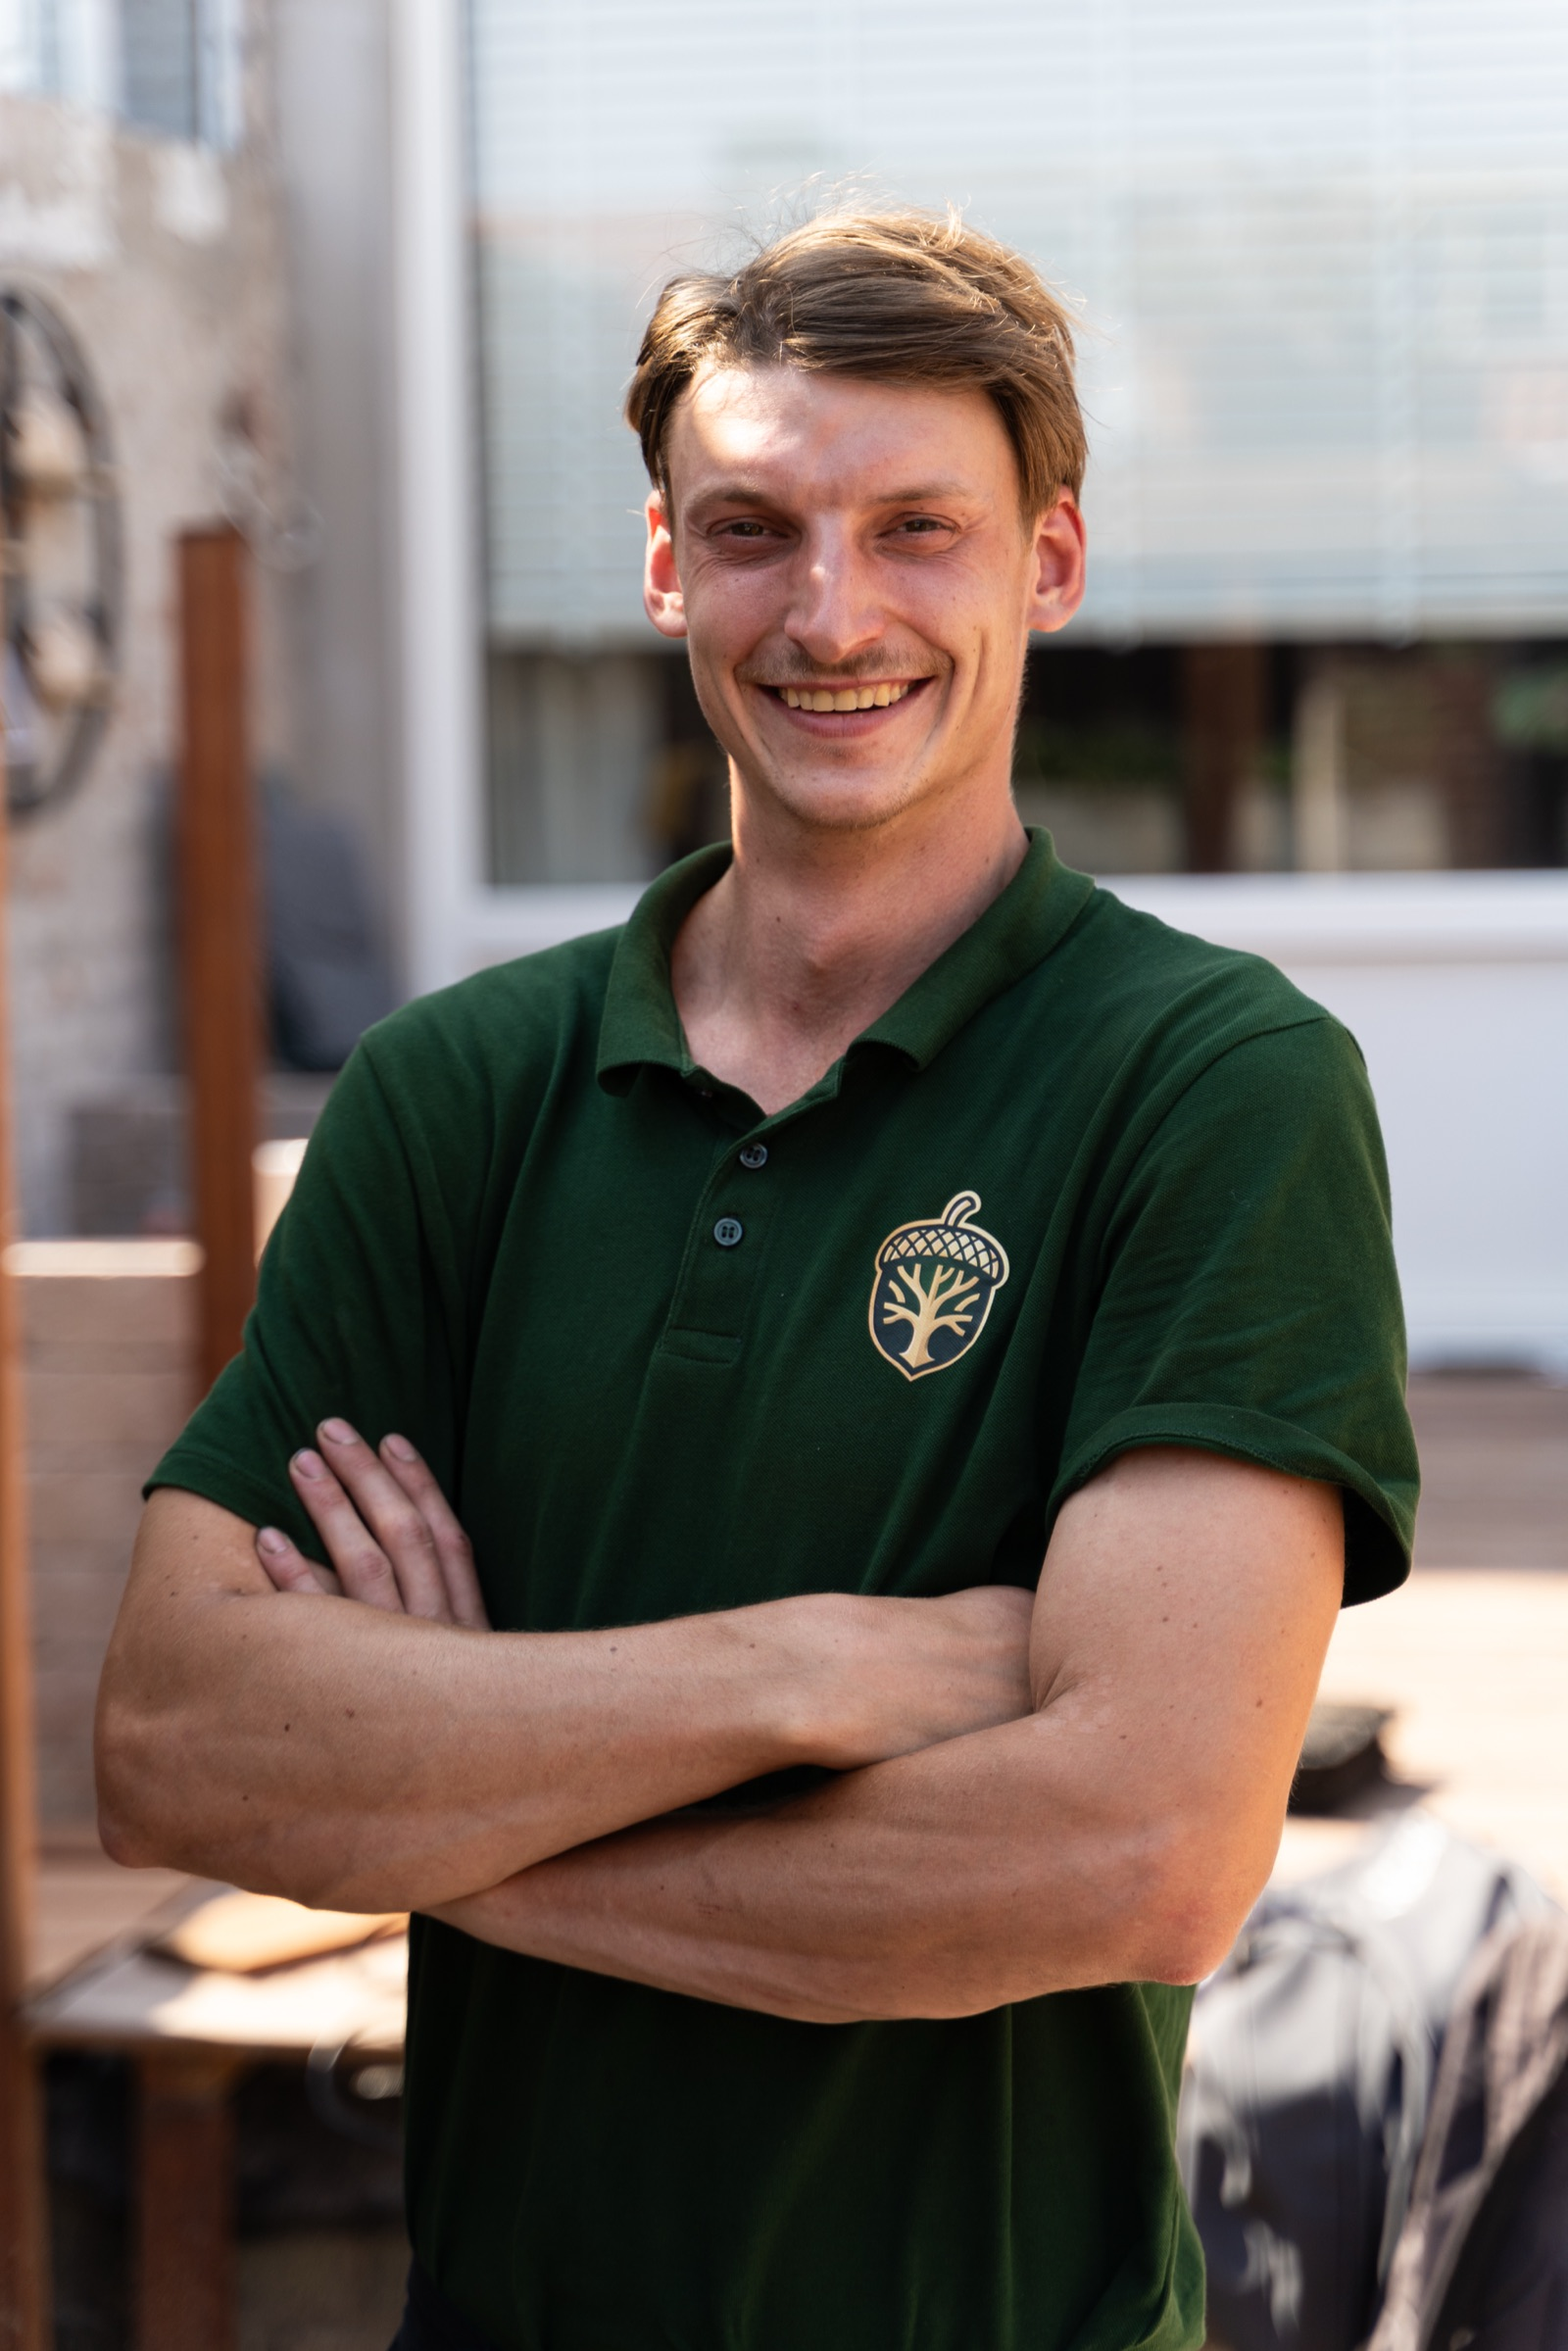
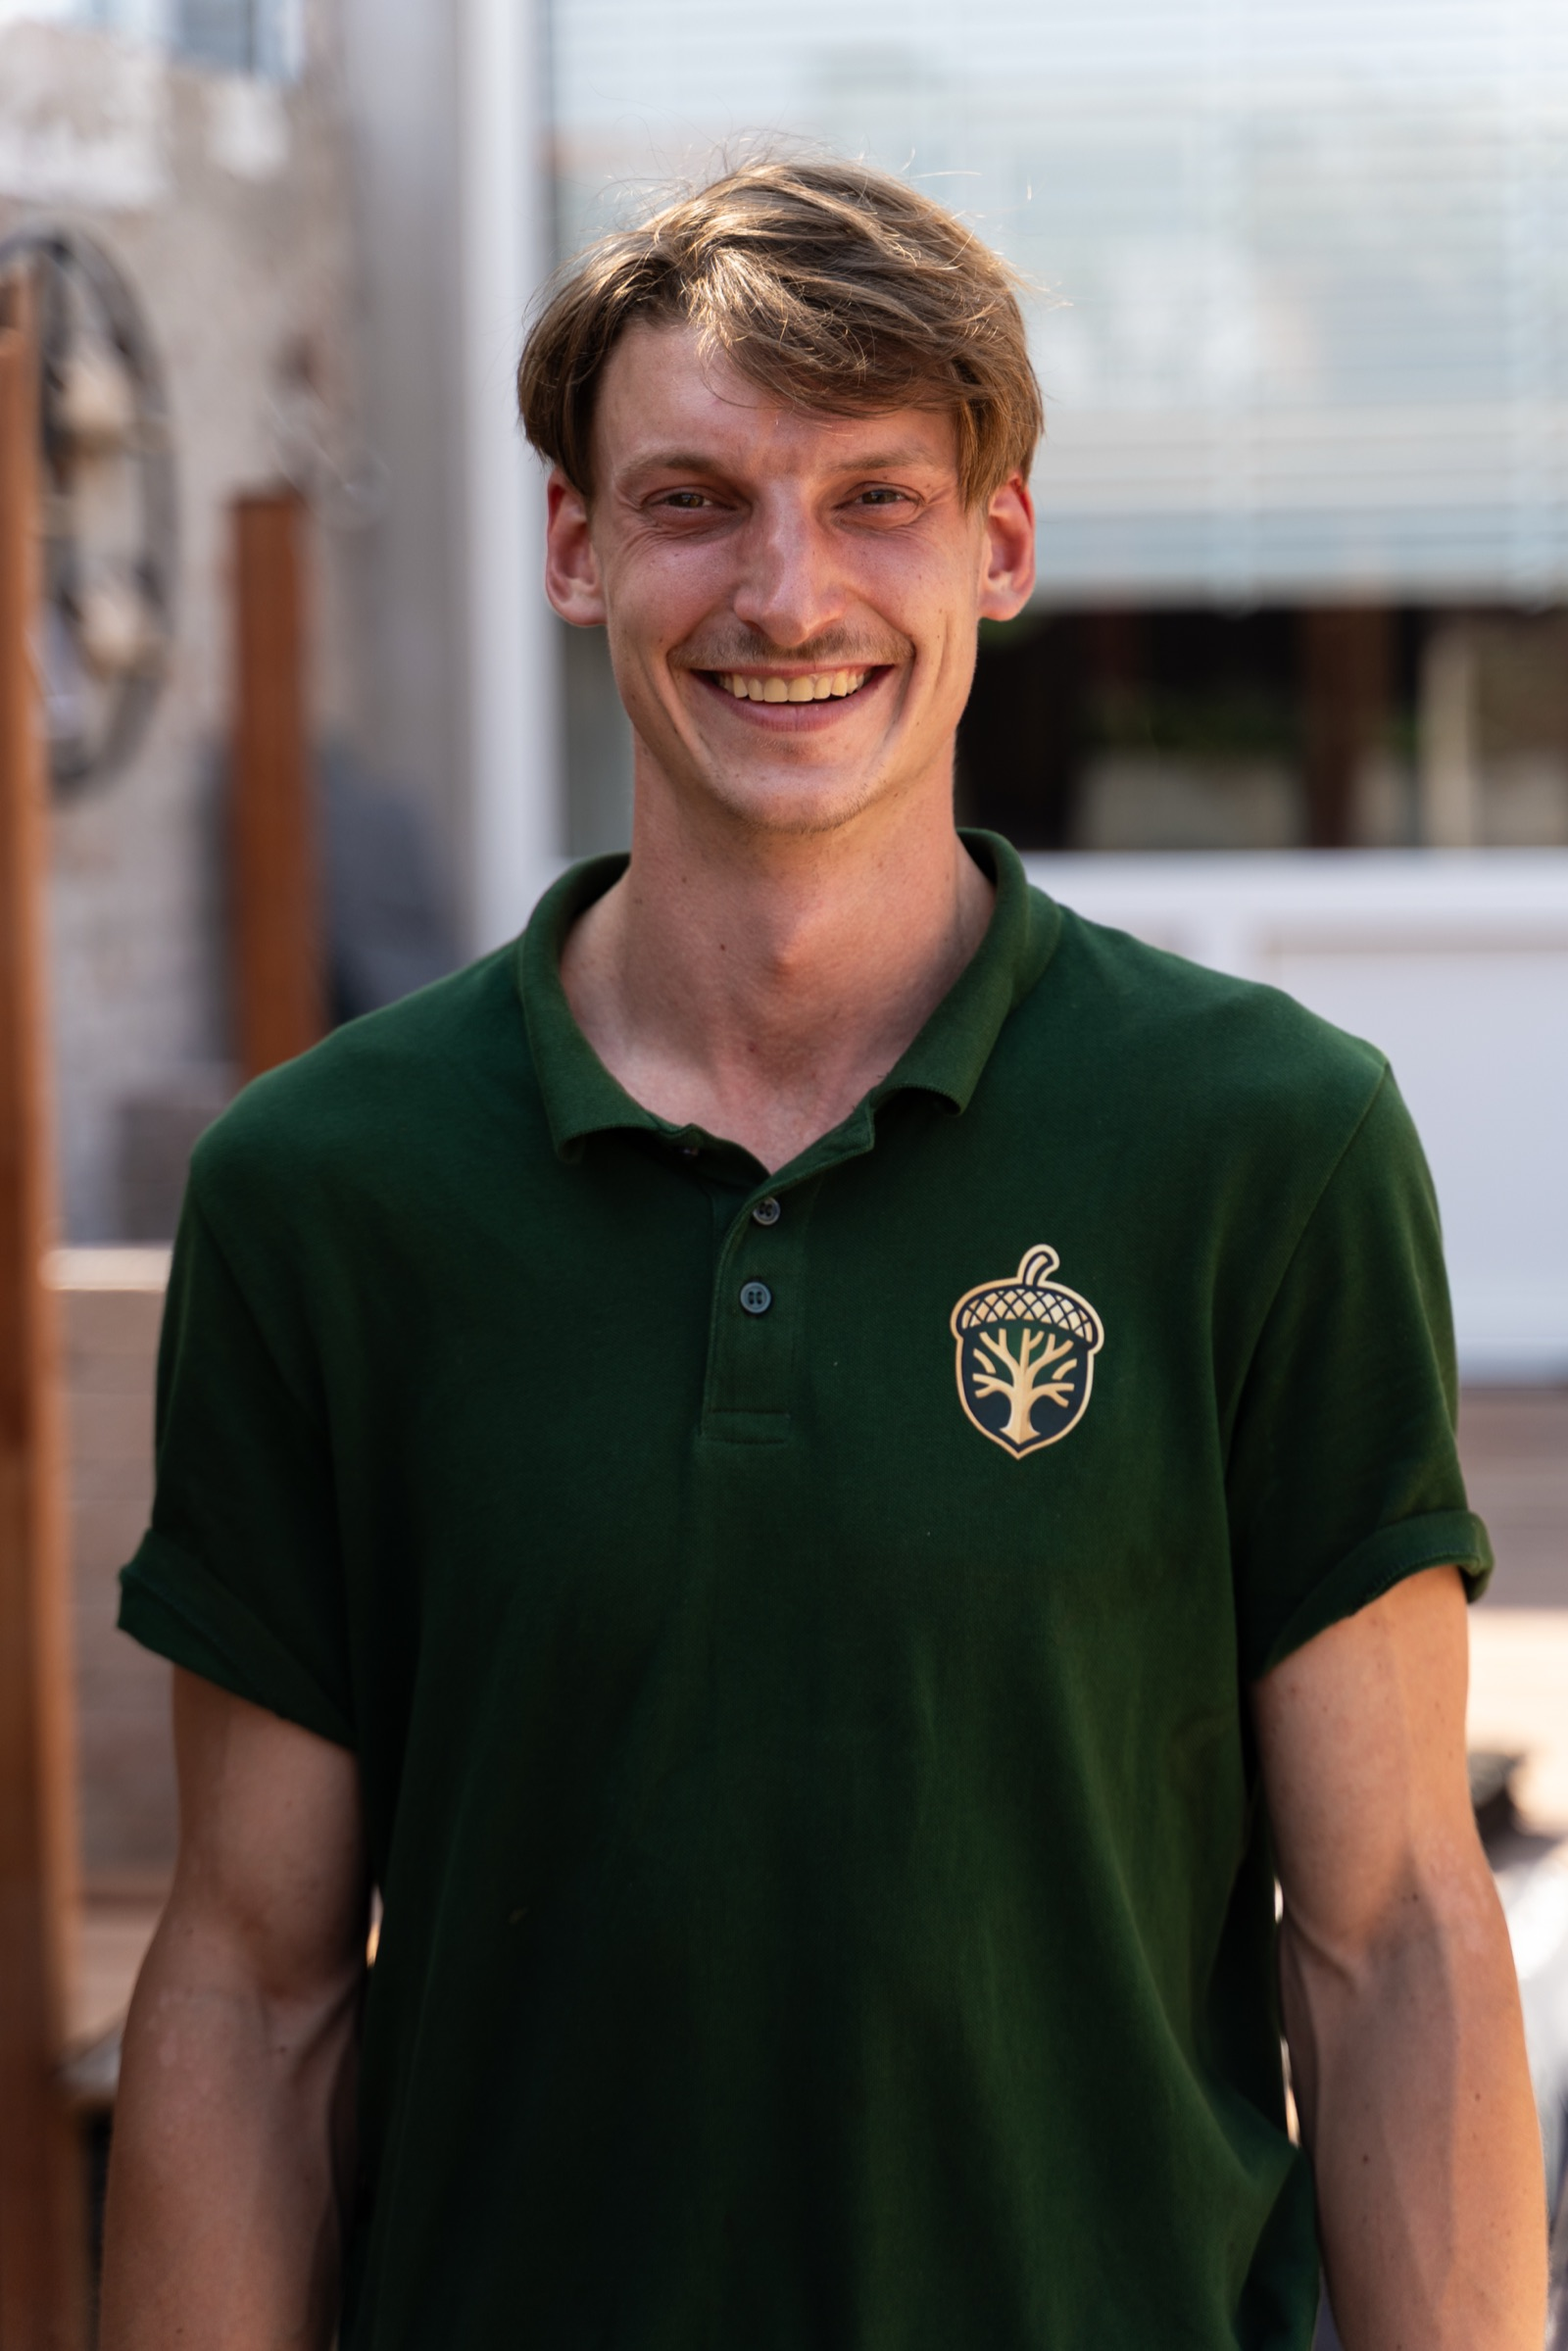
Replace the AI hero portrait with a real photo of Sebastiaan
The portrait in the hero was AI-generated - and not only that, it was a
different man than the one in the actual shoot. Swapped for DSC02622
from the location photography: arms crossed, branded polo, logo
visible. The gallery keeps a different frame (DSC02617) so the hero and
the grid do not show the same shot twice.

Shipped under a new filename rather than overwriting sebastiaan.jpg,
because the image optimizer caches by path and kept serving the old
file after the swap.

diff --git a/app/cases/hovenier-eykelenboom/page.tsx b/app/cases/hovenier-eykelenboom/page.tsx
@@ -91,7 +91,7 @@ export default function Page() {
     headline: c.h1,
     description: metadata.description as string,
     path: PATH,
-    image: `${IMG}/sebastiaan.jpg`,
+    image: `${IMG}/sebastiaan-portret.jpg`,
     datePublished: c.updated,
     crumbs,
     clientName: c.client,
@@ -150,7 +150,7 @@ export default function Page() {
                 <div className="relative overflow-hidden chamf chamf-lg border border-[var(--color-line-strong)] shadow-[0_44px_100px_-45px_rgba(0,0,0,0.8)]">
                   <div className="relative aspect-[4/5]">
                     <Image
-                      src={`${IMG}/sebastiaan.jpg`}
+                      src={`${IMG}/sebastiaan-portret.jpg`}
                       alt="Sebastiaan Eykelenboom, eigenaar van Hovenier Eykelenboom in Den Haag"
                       fill
                       priority
@@ -625,7 +625,7 @@ export default function Page() {
               <div className="grid md:grid-cols-[0.9fr_1.1fr]">
                 <div className="relative min-h-[220px] bg-s0">
                   <Image
-                    src={`${IMG}/sebastiaan.jpg`}
+                    src={`${IMG}/sebastiaan-portret.jpg`}
                     alt="Sebastiaan Eykelenboom"
                     fill
                     sizes="(max-width: 768px) 92vw, 40vw"

diff --git a/components/cases/FotoGalerij.tsx b/components/cases/FotoGalerij.tsx
@@ -35,10 +35,10 @@ const fotos: Foto[] = [
   {
     id: "f1",
     src: "/images/cases/eykelenboom/foto/portret-sebastiaan.jpg",
-    alt: "Sebastiaan Eykelenboom in bedrijfspolo voor een woning in Den Haag",
+    alt: "Sebastiaan Eykelenboom in bedrijfspolo bij een project in Den Haag",
     caption: "De hovenier zelf",
     w: 1600,
-    h: 2400,
+    h: 2399,
     groot: true,
   },
   {
